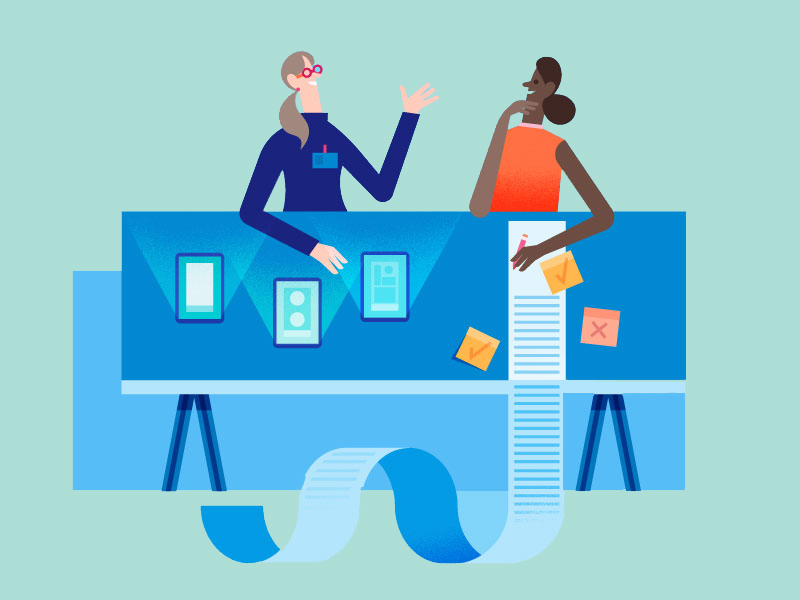
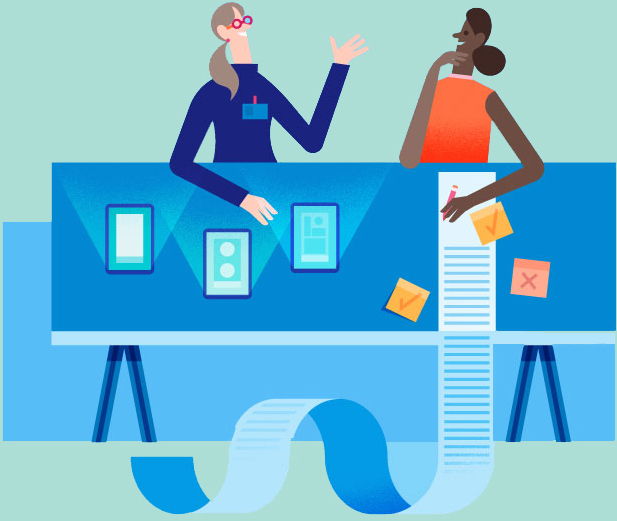
fix page design
Cropped image, also fixed white bottom of page when fullscreening.

diff --git a/src/preferences-welcome/preferences-welcome.component.css b/src/preferences-welcome/preferences-welcome.component.css
@@ -4,22 +4,30 @@ div {
     background-color: #ACDED5;
 }
 
-html {font-size: 18px;}
-
 body {
-    font-family: 'Poppins', sans-serif;
+    font-family: Roboto, "Helvetica Neue", sans-serif;
     font-weight: 400;
     line-height: 1.45;
     color: #333;
+    padding-bottom: 20px;
+
+}
+
+#wrapper {
+    min-height: 840px;
 }
 
 p {margin-bottom: 1.25em;}
 
 h1, h2, h3, h4, h5 {
-    margin: 2rem 0 0.25rem;
-    font-family: 'Montserrat', sans-serif;
+    margin: 0.5rem 0 0.25rem;
     font-weight: 400;
     line-height: 1.15;
+}
+
+#dearHeader {
+    margin-top: 50px;
+    font-weight: 450;
 }
 
 .white-color {
@@ -42,12 +50,12 @@ h5 {font-size: 1.2em; text-align: center;}
 small, .text_small {font-size: 0.833em;} 
 
 
-.white-color {
-    color: white;
+.grey-color {
+    color: #47525E;
 }
 
 .mat-slide-toggle {
-    margin-left: 5px;
+    margin-right: 5px;
 }
 
 /deep/ .mat-slide-toggle.mat-checked:not(.mat-disabled) .mat-slide-toggle-bar {
@@ -59,7 +67,8 @@ small, .text_small {font-size: 0.833em;}
 }
 
 button {
-    width: 100px;
+    width: 184px;
+    height: 50px;
     min-width: 24px;
 }
 
@@ -75,16 +84,18 @@ button:nth-of-type(2) {
 
 ul {
     list-style: none;
-    padding-left: 5px;
+    padding-left: 0;
+    margin-top: 30px;
 }
 
-li {
-    
+#itemPreference {
+    margin-top: 15px;
 }
 
 #preferences {
     /* float: left; */
-    max-width: 45%;
+    min-width: 500px;
+    margin-top: 30px;
 }
 
 #main {
@@ -101,7 +112,7 @@ li {
 }*/
 
 #imageDiv {
-    margin-top: -5%;
+    margin-top: -100px;
     text-align: right;
 }
 
@@ -110,9 +121,13 @@ li {
 }
 
 #btnDiv {
-    margin-top: 1%;
+    margin-top: 30px;
 }
 
 .flexer {
     display: flex;
+}
+
+.padded {
+    margin-top: 50px;
 }

diff --git a/src/preferences-welcome/preferences-welcome.component.html b/src/preferences-welcome/preferences-welcome.component.html
@@ -1,18 +1,19 @@
 <div id="wrapper">
   <div id="main">
-    <h2 class="white-color">{{dearMessage}}</h2>
-    <h3 class="white-color">{{mainMessage}}</h3>
+    <h2 id="dearHeader" class="grey-color">{{dearMessage}}</h2>
+    <h3 class="grey-color">{{mainMessage}}</h3>
     <div id="btnDiv">
-    <button mat-flat-button color="primary">Read more</button>
-    <button mat-flat-button>Skip</button>
-    <div class="flexer">
+      <button mat-flat-button color="primary">Read more</button>
+      <button mat-flat-button>Skip</button>
+    </div>
+    <div class="flexer padded">
       <div id="preferences">
-        <h4>{{matterMessage}}</h4>
+        <h4 class="grey-color">{{matterMessage}}</h4>
         <ul>
             <li *ngFor="let item of preferences;">
               <div id="itemPreference">
-              <h5 class="white-color inline">{{item}}</h5>
-              <mat-slide-toggle class="inline"></mat-slide-toggle>
+                <mat-slide-toggle class="inline"></mat-slide-toggle>
+                <h4 class="grey-color inline">{{item}}</h4>
               </div>
             </li>
         </ul>
@@ -20,5 +21,6 @@
       <div id="imageDiv">
         <img src="../assets/img/preferences_photo.jpg">
       </div>
+    </div>
   </div>
 </div>

diff --git a/src/preferences-welcome/preferences-welcome.component.ts b/src/preferences-welcome/preferences-welcome.component.ts
@@ -11,7 +11,7 @@ export class PreferencesWelcomeComponent implements OnInit {
   mainMessage = `We do really care about your experience at Babes-Bolyai University. By letting us know your preferences, 
                 we can put our best algorithms to work on a schedule perfectly fitted to your needs.`
   matterMessage = `Tell us what really matters to you. You can change the preferenes whenever you decide from your 
-                profile settings`
+                profile settings.`
   preferences = ["Not before 10am", "No break between activities"]
 
   constructor() { 
